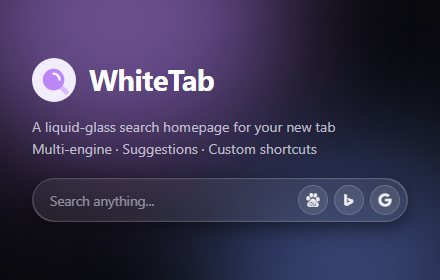
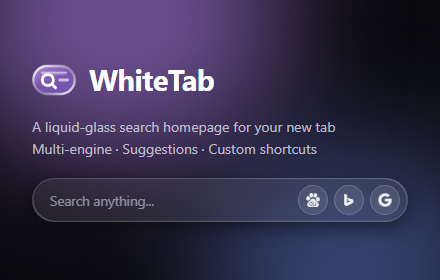
assets: 更换图标为透明底玻璃胶囊
原图标为圆底放大镜，是搜索类扩展最常见的组合，在商店列表中难以区分。
新图标取自产品界面的玻璃搜索条：透明底、斜向紫色渐变填充、
边缘折射高光与顶部反光，与液态玻璃的视觉语言一致。

- 重绘 logo.svg，输出 16/32/48/128 与商店 300x300
- 推广图与 favicon 同步替换
- 扩展版本号递增至 2.0.2

Changed region(s): [[0.0591, 0.2, 0.1773, 0.3714]]

diff --git a/README.md b/README.md
@@ -1,7 +1,11 @@
 # White Search / 白搜 （搜索美化、聚合搜索）
 
+[![Edge Add-ons](https://img.shields.io/badge/Edge%20Add--ons-WhiteTab%20新标签页-0078D7?logo=microsoftedge&logoColor=white)](https://microsoftedge.microsoft.com/addons/detail/aohcjoigeeljaoaljgphldmmgondhkok)
+
 起因是从 2026 年某天百度首页增加了一个无法手动关闭的信息流，
 固诞生 White-Search，替换百度或必应用于浏览器首页，提供多引擎的一键搜索直达，并集成联想词建议以及常见 AI Chat 入口，整体采用液态玻璃风格。
+
+浏览器扩展已上架 Edge 加载项商店，名称为 **WhiteTab 新标签页**：<https://microsoftedge.microsoft.com/addons/detail/aohcjoigeeljaoaljgphldmmgondhkok>
 
 ![亮色模式](./assets/index.png)
 
@@ -49,9 +53,15 @@ https://duckduckgo.com/?q=%s
 
 ## 安装
 
-### 方式一：浏览器扩展（推荐）
+### 方式一：Edge 加载项商店（推荐）
 
-安装后自动替换新标签页。
+<https://microsoftedge.microsoft.com/addons/detail/aohcjoigeeljaoaljgphldmmgondhkok>
+
+点击「获取」即可，安装后自动接管新标签页，后续版本会自动更新。
+
+### 方式二：手动加载扩展
+
+适用于 Chrome，或想抢先使用尚未上架的版本。
 
 1. 从 [Releases](../../releases) 下载 `white-search-<版本>.zip` 并解压
 2. 打开 `chrome://extensions`（Edge 为 `edge://extensions`）
@@ -60,7 +70,7 @@ https://duckduckgo.com/?q=%s
 
 扩展形态下联想词通过 `fetch` 直接请求，需要 `host_permissions`（已在 `manifest.json` 中声明，仅限三个搜索引擎的联想接口域名）。
 
-### 方式二：静态页面
+### 方式三：静态页面
 
 直接打开 `index.html` 即可，或将其设为浏览器主页。此形态下联想词走 JSONP，无需任何权限。
 
